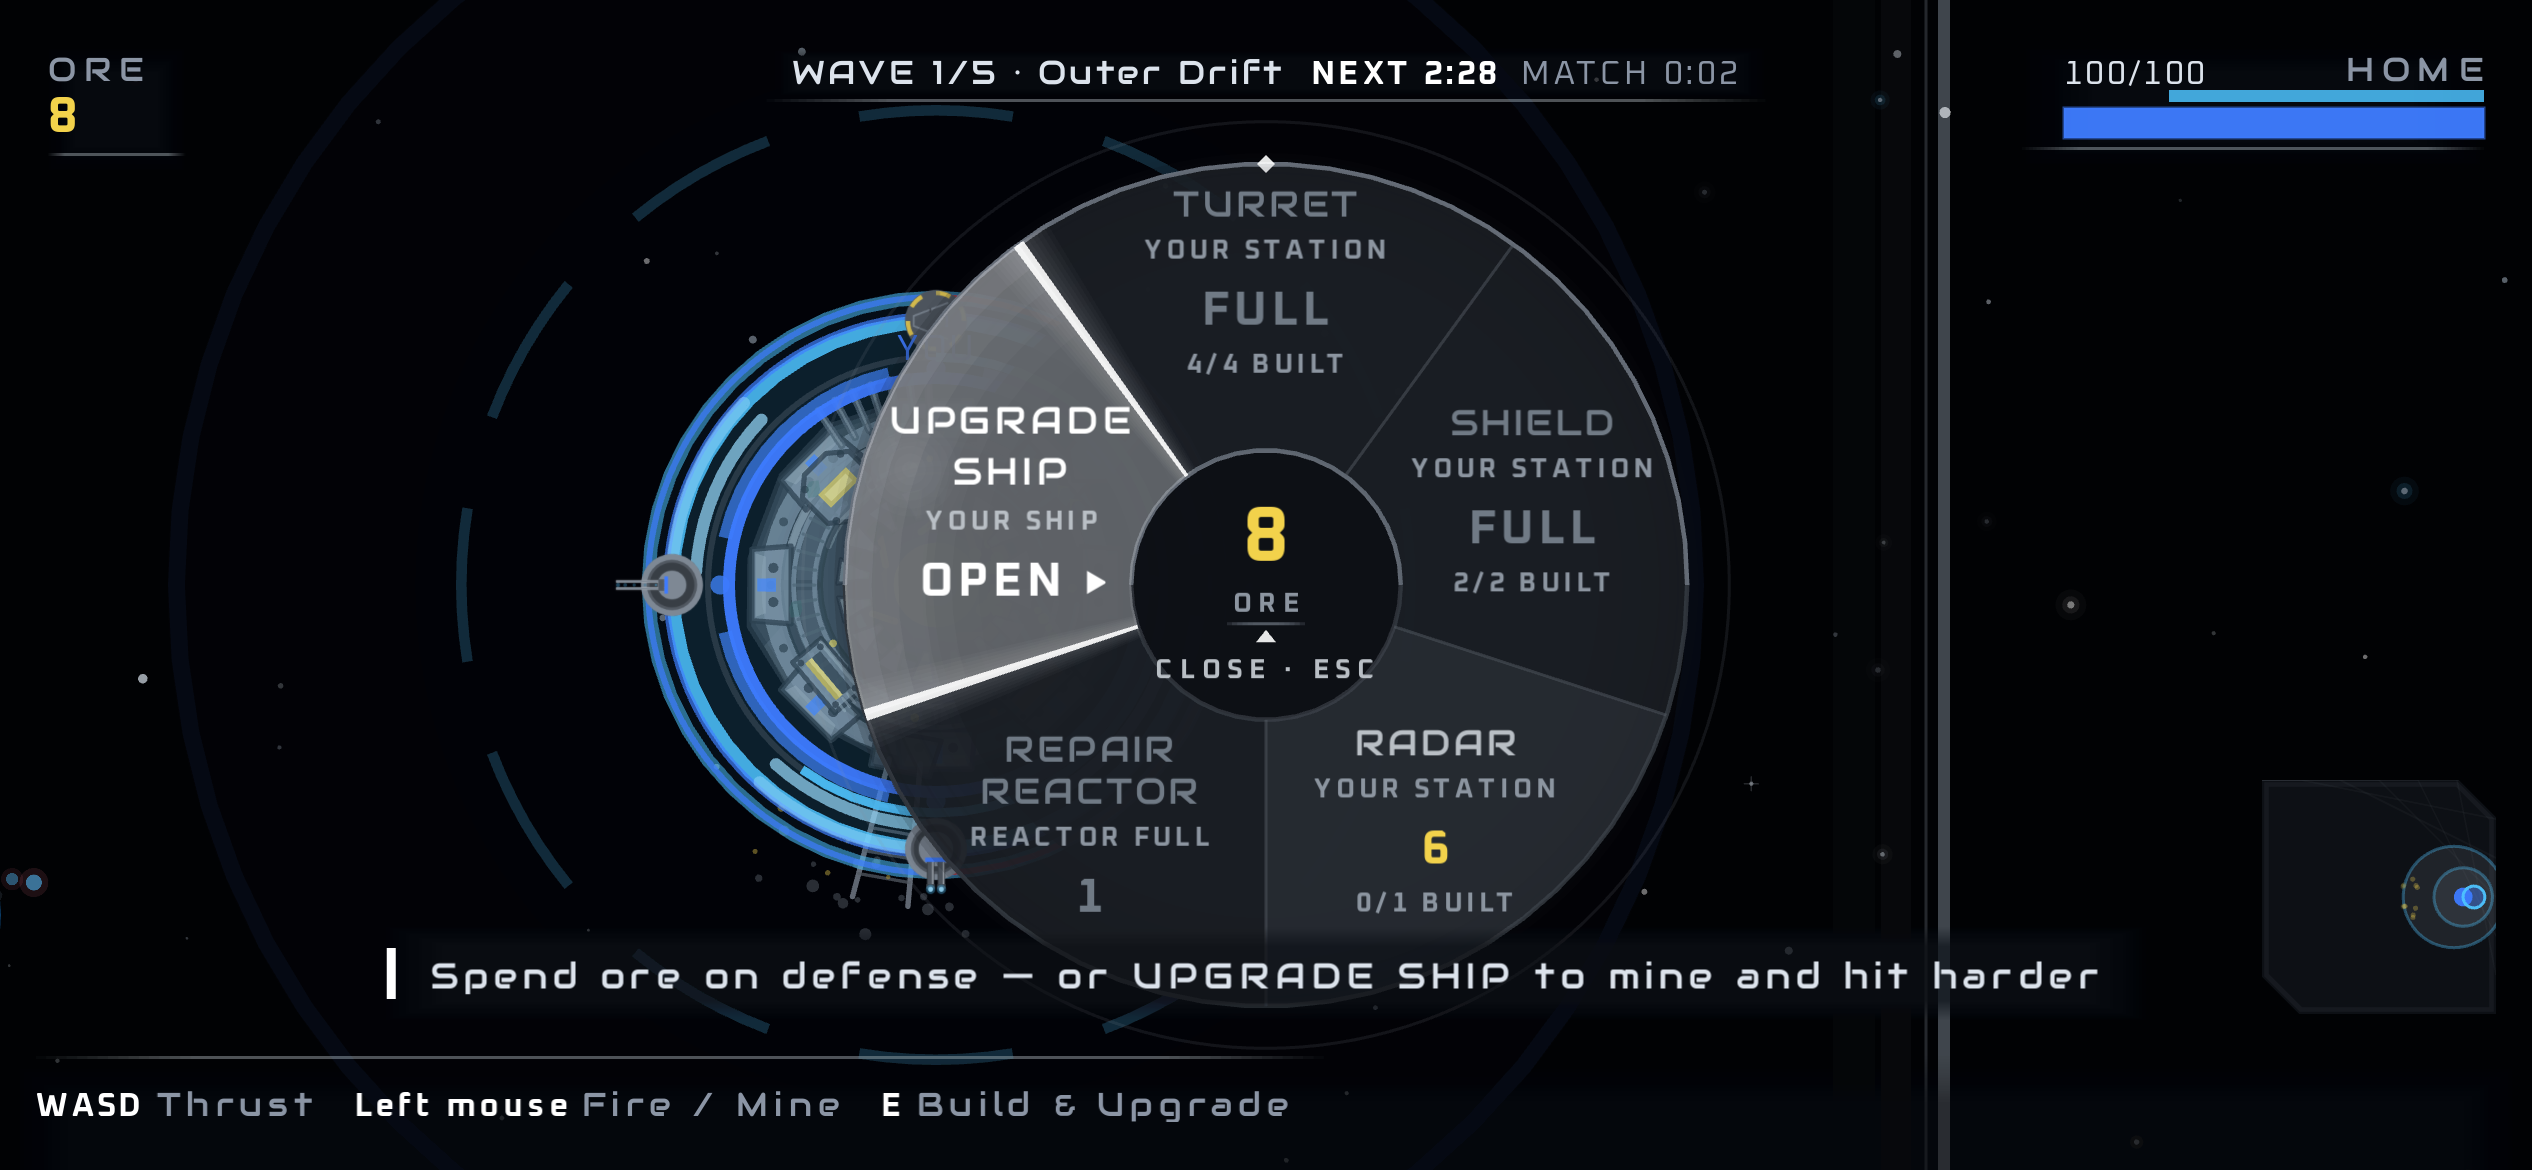
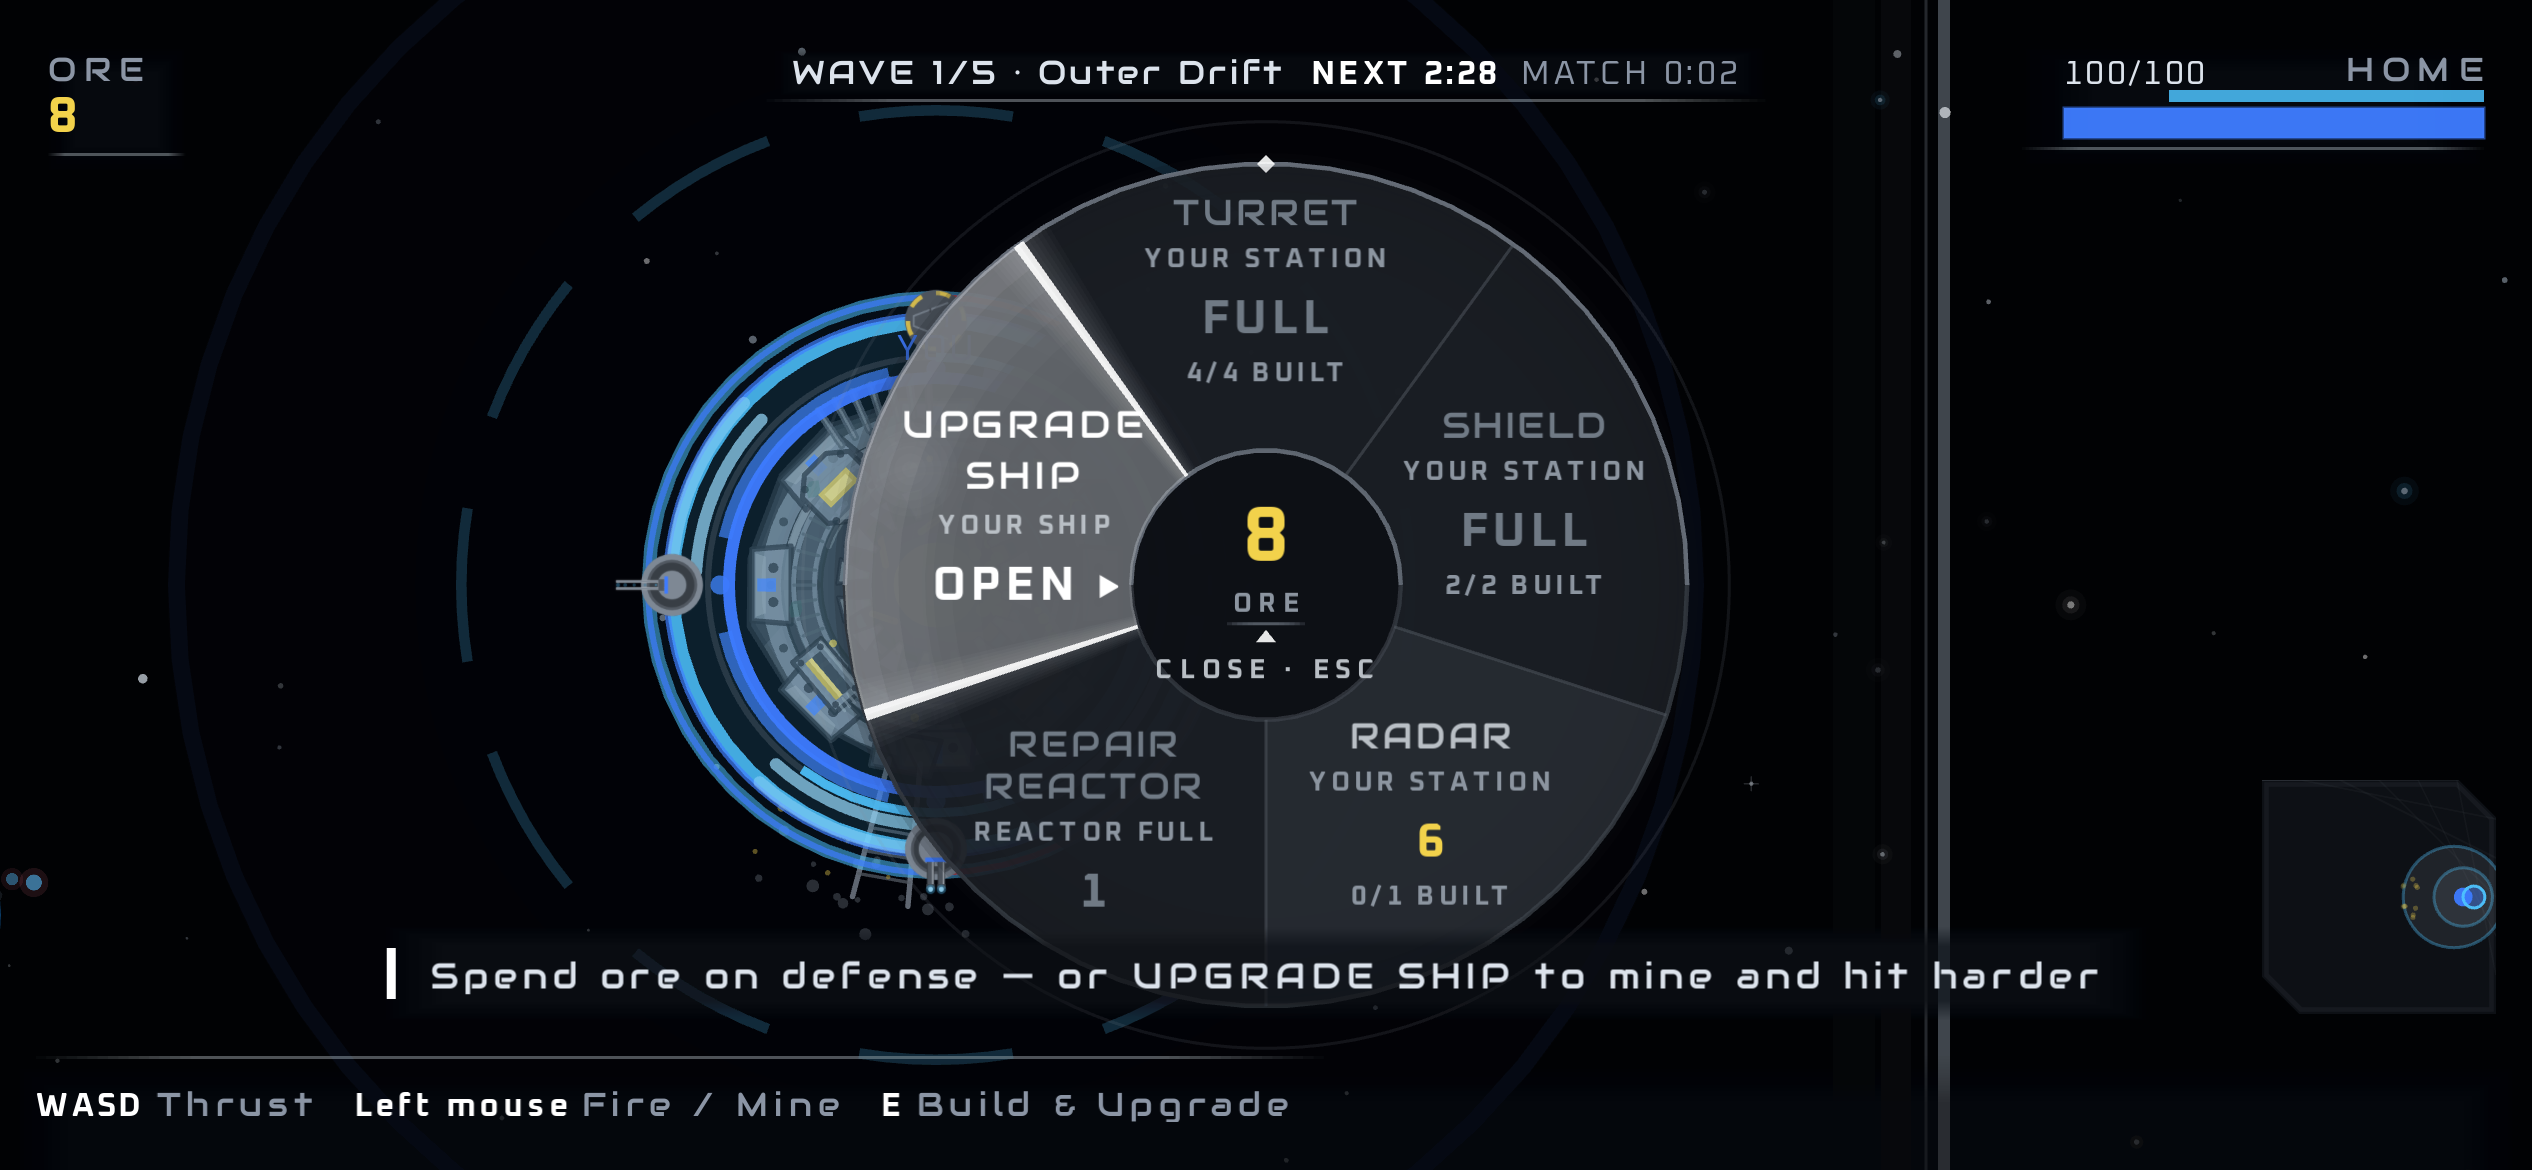
test(a0-32): rebaseline the ten wheel goldens — and delete them first
The three phone BUILD WHEEL baselines were RED against this branch before the fit
was applied as a delta; once TURRET and REPAIR REACTOR stopped moving they came
back green — under the 1% maxDiffPixelRatio, but not unchanged. In-tolerance is
not the same as identical, and `--update-snapshots` will not rewrite a baseline
that passes, so every wheel shot was deleted before the update run rather than
trusted to notice itself.

Ten deleted, ten regenerated, eight of them different. The two that came back
byte-identical are the PHONE upgrade wheels: four wedges of 90° instead of five
of 72°, and at that width nothing needed pulling in — which is the same fact the
unit suite reports from the other side.

Evidence refreshed off the same build.

diff --git a/src/ui/wheel-stack.ts b/src/ui/wheel-stack.ts
@@ -475,6 +475,19 @@ export const MIN_NAME_FIT_SCALE = 0.8;
 export interface WedgeFit {
   /** The radius the stack's centre hangs at — the design's, or nearer the hub. */
   readonly radius: number;
+  /**
+   * How far IN from the design's rim-anchored radius the stack was pulled, px.
+   * Zero on every wedge that already fitted.
+   *
+   * Reported alongside {@link radius} — and it is what the view actually applies —
+   * because the view measures its own stack with PixiJS and this module measures
+   * it with `./font-metrics`, and the two agree to about a pixel rather than
+   * exactly. Handing the view an absolute radius would move every wedge on the
+   * wheel by that pixel, including the ones with nothing wrong with them; handing
+   * it a DELTA moves only the wedges this fix is for, and leaves the rest of the
+   * ratified wheel byte-identical.
+   */
+  readonly pullIn: number;
   /** What the NAME's size was multiplied by. `1` at every profile that did not
    *  need it, which is all of them but the phone's selected wedge. */
   readonly nameScale: number;
@@ -558,8 +571,9 @@ export function fitWedgeStack(
     return { radius: lo, inward: overflowAt(scaled, lo).inward };
   };
 
+  const design = wedgeStackBoxes(lines, outerRadius, m, angle).centreRadius;
   const at = place(lines);
-  if (at.inward <= 0) return { radius: at.radius, nameScale: 1 };
+  if (at.inward <= 0) return { radius: at.radius, pullIn: design - at.radius, nameScale: 1 };
 
   // The stack cannot be placed at this name size. Bisect the name down for the
   // largest scale that can be, and stop at the floor rather than at "readable
@@ -567,14 +581,21 @@ export function fitWedgeStack(
   // test says so by name.
   let lo = MIN_NAME_FIT_SCALE;
   let hi = 1;
-  let best = { radius: place(scaleName(lines, lo)).radius, nameScale: lo };
+  const answer = (radius: number, nameScale: number): WedgeFit => ({
+    radius,
+    // Measured against the design radius the SCALED stack would hang at, since a
+    // shorter name makes a shorter stack and the rim anchor moves with it.
+    pullIn: wedgeStackBoxes(scaleName(lines, nameScale), outerRadius, m, angle).centreRadius - radius,
+    nameScale,
+  });
+  let best = answer(place(scaleName(lines, lo)).radius, lo);
   if (place(scaleName(lines, lo)).inward > 0) return best;
   for (let i = 0; i < 10; i++) {
     const mid = (lo + hi) / 2;
     const tried = place(scaleName(lines, mid));
     if (tried.inward <= 0) {
       lo = mid;
-      best = { radius: tried.radius, nameScale: mid };
+      best = answer(tried.radius, mid);
     } else {
       hi = mid;
     }

diff --git a/src/ui/hud-geometry.test.ts b/src/ui/hud-geometry.test.ts
@@ -1014,6 +1014,10 @@ describe('a wedge at 390 px, with its longest values (u7-02, a0-32)', () => {
         expect(fit.radius, `${name}/${seg.id} hangs its words past the design radius`).toBeLessThanOrEqual(
           design + 1e-6,
         );
+        // …and the view is handed that as a DELTA off its own measurement, so a
+        // wedge that needs no fitting is not moved by a rounding difference
+        // between two rulers. Never negative: this fix does not push words out.
+        expect(fit.pullIn, `${name}/${seg.id} is pushed OUT, not pulled in`).toBeGreaterThanOrEqual(0);
       }
     }
   });
@@ -1028,11 +1032,13 @@ describe('a wedge at 390 px, with its longest values (u7-02, a0-32)', () => {
       const turret = buildWheelModel(WORST_CASE).segments[0]!;
       expect(segmentAngle(0)).toBeCloseTo(-Math.PI / 2, 10);
       const lines = buildWedgeLines(turret, m);
-      const design = wedgeStackBoxes(lines, outer, m, segmentAngle(0)).centreRadius;
+      // `pullIn`, not the radius: zero here is the assertion that the SHIPPED
+      // frame is byte-identical for this wedge, because zero is what the view
+      // subtracts from its own measurement.
       expect(
-        fitWedgeStack(lines, outer, m, segmentAngle(0), SEGMENTS).radius,
+        fitWedgeStack(lines, outer, m, segmentAngle(0), SEGMENTS).pullIn,
         `${name}: the top wedge moved, and it had no reason to`,
-      ).toBeCloseTo(design, 6);
+      ).toBe(0);
     }
   });
 

diff --git a/src/ui/build-wheel-view.ts b/src/ui/build-wheel-view.ts
@@ -1002,7 +1002,14 @@ export class BuildWheelView extends Container {
 
     // The cluster's own origin is its top-centre (children are anchored 0.5, 0),
     // so the pivot puts the pulse's centre of gravity in the middle of the stack.
-    const centre = fit.radius;
+    //
+    // The design hangs the stack from just inside the rim; a0-32's fit is applied
+    // as a DELTA off that rather than as an absolute radius, so a wedge that needs
+    // no fitting lands exactly where it always did. (The two measure the stack's
+    // height with different rulers — PixiJS here, `./font-metrics` there — and
+    // they agree to about a pixel; a pixel is not worth moving four wedges that
+    // were never wrong.)
+    const centre = labelTopRadius(m, outer) - stackHeight / 2 - fit.pullIn;
     const lx = Math.cos(d.angle) * centre;
     const ly = Math.sin(d.angle) * centre;
     nodes.cluster.pivot.set(0, stackHeight / 2);
@@ -1077,7 +1084,7 @@ export class BuildWheelView extends Container {
       cost,
       detail,
       fitKey: '',
-      fit: { radius: 0, nameScale: 1 },
+      fit: { radius: 0, pullIn: 0, nameScale: 1 },
     };
     pool[index] = nodes;
     return nodes;
